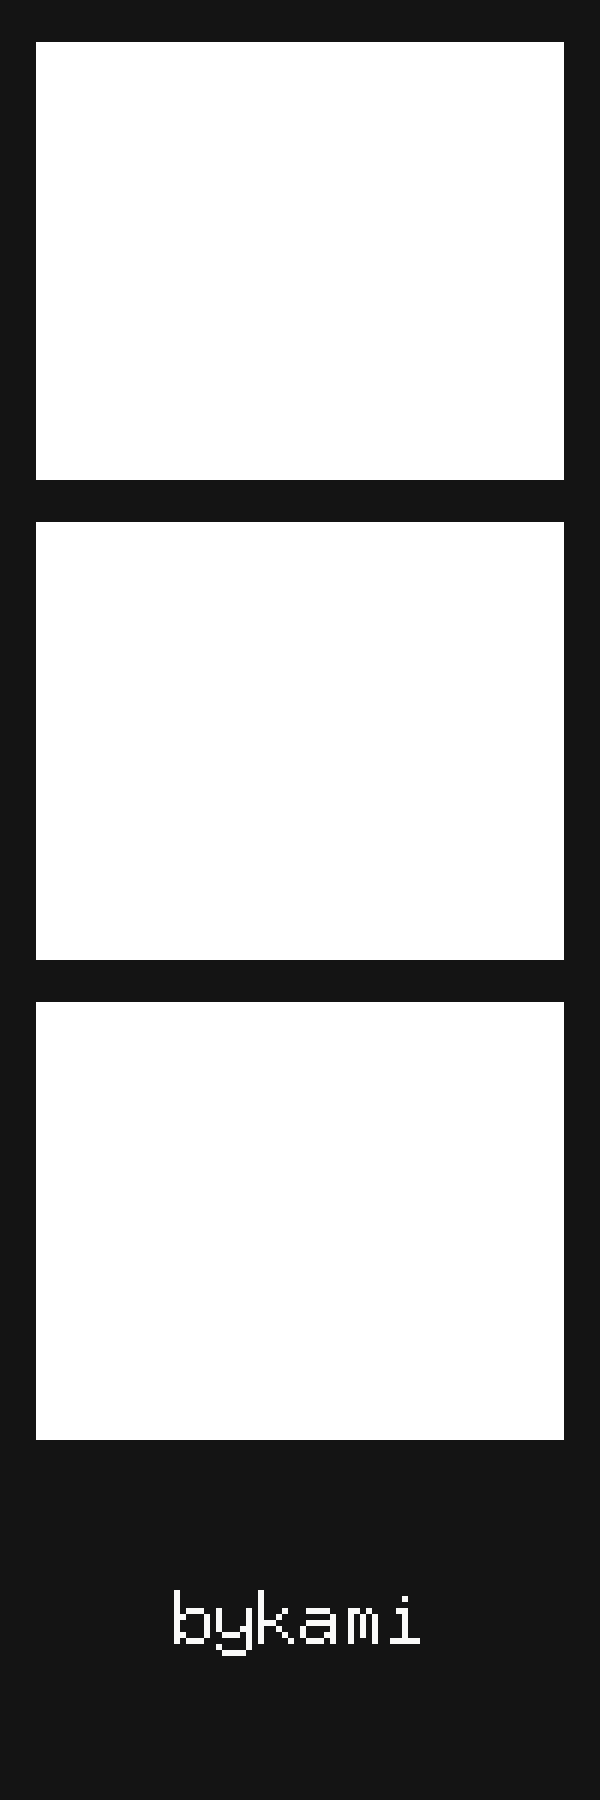
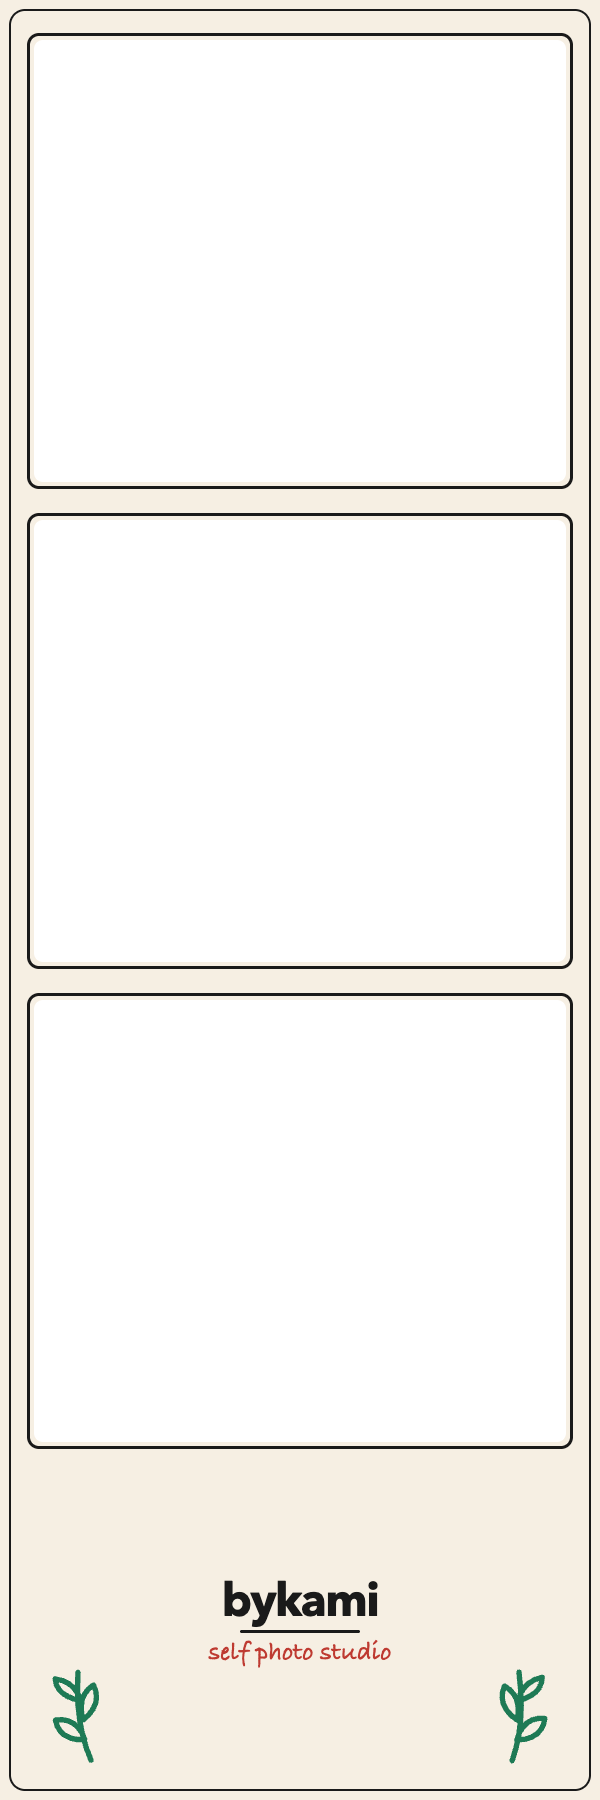
Draw the real strip frames, to the house design language
Cream mat, ink outlines with rounded corners lapping each photo edge, the
wordmark over a rule, a handwritten line in the deep red, and a botanical
mark at each foot. They replace the blocky placeholders, which existed
only so a booth with no artwork could finish a session.

Rendered in a browser rather than drawn in Go. An overlay is a print
asset — 600x1800 at 300 dpi, real type, curves that must stay smooth at
5 cm wide — and x/image gave bitmap type, which is exactly why the
placeholders were obviously unshippable. Chrome already has a text
shaper and a path rasteriser, so the artwork is HTML/CSS/SVG against the
same tokens as the kiosk UI. The trade is a browser and two macOS fonts
to regenerate, so the PNGs are committed rather than built in CI.

Two passes, because the cells must be transparent or the frame covers
the photos it is meant to surround, and Chrome will not screenshot with
a transparent background here. The art pass is the frame; the mask pass
is white where it is opaque and black inside the cells; punch.go takes
RGB from one and alpha from the other's luminance. Punching known
rectangles instead would give hard edges, and the cells are rounded — a
stair-stepped photo edge against the ink ring shows at print resolution.

The hole is inset 4px inside the manifest cell so the ring laps the
photo rather than butting against it, costing ~0.34 mm per side.

frame.html restates the cell rectangles from each template.json and
[…]

diff --git a/design/frames/frame.html b/design/frames/frame.html
@@ -1,0 +1,142 @@
+<!doctype html>
+<html>
+<head>
+<meta charset="utf-8">
+<style>
+  :root {
+    --ink: #1a1a1a;
+    --cream: #f6efe3;
+    --red: #be3a31;
+    --green: #1e7a55;
+    --pink: #f3c9c3;
+    --yellow: #e7b23f;
+  }
+  * { box-sizing: border-box; margin: 0; padding: 0; }
+  html, body { width: 600px; height: 1800px; overflow: hidden; }
+  body { background: var(--cream); }
+
+  /* The mask pass paints the same geometry in black on white; the alpha
+     channel is taken from it, so the two passes must agree exactly. */
+  body.mask { background: #fff; }
+  body.mask .art { display: none; }
+  /* The punch belongs to the mask pass only; in the art pass the cell area is
+     left as ground, because its pixels are about to become transparent. */
+  .hole { display: none; }
+  body.mask .hole { display: block; }
+
+  .sheet { position: relative; width: 600px; height: 1800px; }
+
+  /* Drawn at the cell rect. The hole is inset inside this, so the border
+     survives the punch and laps over the photo's outer few pixels. */
+  .cell-ring {
+    position: absolute;
+    border: 3px solid var(--ink);
+    border-radius: 12px;
+  }
+  .hole {
+    position: absolute;
+    background: #000;
+    border-radius: 9px;
+  }
+
+  .edge {
+    position: absolute;
+    inset: 9px;
+    border: 2px solid var(--ink);
+    border-radius: 16px;
+  }
+
+  .foot {
+    position: absolute;
+    left: 0;
+    right: 0;
+    bottom: 0;
+    display: flex;
+    flex-direction: column;
+    align-items: center;
+    justify-content: center;
+    gap: 6px;
+  }
+  .wordmark {
+    font-family: "Avenir Next", "Helvetica Neue", Helvetica, Arial, sans-serif;
+    font-weight: 700;
+    font-size: 46px;
+    letter-spacing: -1.5px;
+    color: var(--ink);
+    line-height: 1;
+  }
+  .tag {
+    font-family: "Bradley Hand", "Segoe Script", "Comic Sans MS", cursive;
+    font-size: 26px;
+    color: var(--red);
+    line-height: 1.1;
+  }
+  .rule {
+    width: 120px;
+    height: 3px;
+    background: var(--ink);
+    border-radius: 2px;
+  }
+
+  .doodle { position: absolute; color: var(--green); }
+</style>
+</head>
+<body>
+<div class="sheet" id="sheet"></div>
+
+<script>
+  const params = new URLSearchParams(location.search);
+  const which = params.get("t") === "3" ? 3 : 4;
+  const mask = params.get("mask") === "1";
+
+  // The manifests, restated. These must match template.json exactly — the hole
+  // punched here is where the photo shows through.
+  const LAYOUTS = {
+    3: { cells: [[30,36,540,450],[30,516,540,450],[30,996,540,450]], foot: 354 },
+    4: { cells: [[30,30,540,360],[30,405,540,360],[30,780,540,360],[30,1155,540,360]], foot: 285 },
+  };
+
+  const sprig =
+    `<svg viewBox="0 0 100 100" fill="none" stroke="currentColor" stroke-width="5"
+          stroke-linecap="round" stroke-linejoin="round">
+       <path d="M50 94 C 46 70, 48 44, 58 12"/>
+       <path d="M49 74 C 34 72, 26 62, 27 50 C 40 51, 48 60, 49 74 Z"/>
+       <path d="M52 56 C 66 50, 72 39, 69 27 C 57 31, 51 42, 52 56 Z"/>
+       <path d="M54 38 C 42 33, 34 24, 36 13 C 47 17, 54 27, 54 38 Z"/>
+     </svg>`;
+
+  const L = LAYOUTS[which];
+  const sheet = document.getElementById("sheet");
+  if (mask) document.body.classList.add("mask");
+
+  const px = (n) => n + "px";
+  let html = "";
+
+  // Rings and edge are artwork; holes are mask-only.
+  html += `<div class="art"><div class="edge"></div></div>`;
+  for (const [x, y, w, h] of L.cells) {
+    html += `<div class="art cell-ring" style="left:${px(x - 3)};top:${px(y - 3)};` +
+            `width:${px(w + 6)};height:${px(h + 6)}"></div>`;
+  }
+
+  // The punch, 4px inside the cell so the ring laps the photo edge.
+  for (const [x, y, w, h] of L.cells) {
+    html += `<div class="hole" style="left:${px(x + 4)};top:${px(y + 4)};` +
+            `width:${px(w - 8)};height:${px(h - 8)}"></div>`;
+  }
+
+  const doodleSize = which === 3 ? 108 : 88;
+  html += `<div class="art foot" style="height:${px(L.foot)}">
+             <div class="wordmark">bykami</div>
+             <div class="rule"></div>
+             <div class="tag">self photo studio</div>
+           </div>
+           <div class="art doodle" style="left:26px;bottom:28px;
+                width:${px(doodleSize)};transform:rotate(-14deg)">${sprig}</div>
+           <div class="art doodle" style="right:26px;bottom:28px;
+                width:${px(doodleSize)};transform:scaleX(-1) rotate(-10deg)">${sprig}</div>`;
+
+  sheet.innerHTML = html;
+</script>
+</body>
+</html>

diff --git a/design/frames/punch.go b/design/frames/punch.go
@@ -1,0 +1,81 @@
+// Command punch combines a frame's art pass with its mask pass.
+//
+// Chrome renders both at the same geometry: the art pass is the frame as it
+// should print, the mask pass is white everywhere the frame is opaque and black
+// inside the cells. Taking alpha from the mask's luminance keeps the holes
+// antialiased, which a rectangle punched by hand would not be — the cells have
+// rounded corners, and a hard-edged hole would show a stair-stepped photo edge
+// against the ink ring.
+package main
+
+import (
+	"fmt"
+	"image"
+	"image/color"
+	"image/png"
+	"log"
+	"os"
+)
+
+func main() {
+	if len(os.Args) != 4 {
+		log.Fatal("usage: punch <art.png> <mask.png> <out.png>")
+	}
+	art := load(os.Args[1])
+	mask := load(os.Args[2])
+
+	if art.Bounds() != mask.Bounds() {
+		log.Fatalf("art %v and mask %v are different sizes", art.Bounds(), mask.Bounds())
+	}
+
+	b := art.Bounds()
+	out := image.NewNRGBA(b)
+	var opaque, clear int
+	for y := b.Min.Y; y < b.Max.Y; y++ {
+		for x := b.Min.X; x < b.Max.X; x++ {
+			mr, mg, mb, _ := mask.At(x, y).RGBA()
+			// Rec. 601 luma. The mask is greyscale apart from antialiasing, so
+			// the weighting barely matters, but averaging channels would tint
+			// the edge alpha if the renderer ever subpixel-antialiases.
+			a := (299*mr + 587*mg + 114*mb) / 1000 >> 8
+
+			r, g, bb, _ := art.At(x, y).RGBA()
+			out.Set(x, y, color.NRGBA{uint8(r >> 8), uint8(g >> 8), uint8(bb >> 8), uint8(a)})
+
+			switch {
+			case a == 255:
+				opaque++
+			case a == 0:
+				clear++
+			}
+		}
+	}
+
+	f, err := os.Create(os.Args[3])
+	if err != nil {
+		log.Fatal(err)
+	}
+	defer f.Close()
+	if err := png.Encode(f, out); err != nil {
+		log.Fatal(err)
+	}
+
+	total := b.Dx() * b.Dy()
+	fmt.Printf("%s: %dx%d, %.1f%% opaque, %.1f%% transparent, %d antialiased\n",
+		os.Args[3], b.Dx(), b.Dy(),
+		100*float64(opaque)/float64(total), 100*float64(clear)/float64(total),
+		total-opaque-clear)
+}
+
+func load(path string) image.Image {
+	f, err := os.Open(path)
+	if err != nil {
+		log.Fatal(err)
+	}
+	defer f.Close()
+	img, err := png.Decode(f)
+	if err != nil {
+		log.Fatalf("%s: %v", path, err)
+	}
+	return img
+}

diff --git a/design/frames/README.md b/design/frames/README.md
@@ -1,0 +1,91 @@
+# Frame artwork
+
+The source for the strip overlays in
+`agent/internal/compose/templates/{strip-3,strip-4}/overlay.png`. The PNGs are
+committed; this directory is how they were made and how to change them.
+
+## Why it is rendered in a browser
+
+An overlay is a print asset — 600×1800 at 300 dpi, real type, curves that have
+to stay smooth at 5 cm wide. Drawing that in Go against `x/image` meant blocky
+bitmap type, which is what the previous placeholders looked like and why they
+were obviously unshippable. Chrome already has a text shaper and a path
+rasteriser, so the artwork is written as HTML/CSS/SVG against the same tokens as
+the kiosk UI and screenshotted at exact pixel size.
+
+The trade is that regenerating needs a browser and the fonts named in
+`frame.html`, which is why the output is committed rather than built in CI.
+
+## Why there are two passes
+
+`compose.Sheet` draws background → photos → overlay, with the overlay composited
+`draw.Over`. The cells must therefore be **transparent** in the overlay or the
+frame would cover the photos it is supposed to surround.
+
+Chrome cannot screenshot with a transparent background here, so the frame is
+rendered twice at identical geometry:
+
+- **art** — the frame as it prints, cells left as ground
+- **mask** (`?mask=1`) — white everywhere the frame is opaque, black inside the
+  cells
+
+`punch.go` then takes RGB from the art and alpha from the mask's luminance. The
+alternative — punching rectangles with known coordinates — would give hard
+edges, and the cells have rounded corners: a stair-stepped photo edge against
+the ink ring is visible at print resolution.
+
+The hole is inset **4 px inside** the manifest cell so the ink ring laps the
+photo's outer edge rather than butting against it. That costs about 0.34 mm of
+photo per side and is why the corners look drawn rather than clipped.
+
+## Regenerating
+
+```bash
+cd design/frames && python3 -m http.server 8912
+```
+
+Then, at a viewport of exactly **600×1800**, screenshot each of:
+
+```
+http://127.0.0.1:8912/frame.html?t=4          → s4art.png
+http://127.0.0.1:8912/frame.html?t=4&mask=1   → s4mask.png
+http://127.0.0.1:8912/frame.html?t=3          → s3art.png
+http://127.0.0.1:8912/frame.html?t=3&mask=1   → s3mask.png
+```
+
+```bash
+go run punch.go s4art.png s4mask.png ../../agent/internal/compose/templates/strip-4/overlay.png
+go run punch.go s3art.png s3mask.png ../../agent/internal/compose/templates/strip-3/overlay.png
+```
+
+`punch.go` prints the opaque/transparent split. A sane strip is roughly a third
+opaque; if it reports near 0% transparent the mask pass did not render, and the
+overlay would print as a solid card over the customer's faces.
+
+## The geometry is duplicated, deliberately
+
+`frame.html` restates the cell rectangles from each `template.json`. They must
+match: the hole punched here is where the photo shows through. It is duplicated
+rather than imported because the renderer is a static page with no build step,
+and a build step to remove one small duplication would be the more expensive
+mistake. `compose` will not catch a mismatch — it composites whatever it is
+given — so **check a composed sheet after any geometry change**, not just the
+overlay on its own.
+
+## Fonts
+
+`Avenir Next` for the wordmark and `Bradley Hand` for the handwritten line, both
+macOS system faces, with Windows and generic fallbacks named. Rasterising text
+with an installed font into an image is ordinary use and does not redistribute
+the font — unlike bundling a woff2, which is why `apps/kiosk/src/styles.css` has
+the opposite constraint.
+
+Regenerating on a machine without those faces will silently substitute and the
+type will shift. If that matters, the fix is to commit an OFL face here and name
+it explicitly.
+
+## 4R has no overlay, on purpose
+
+`4r-polos` is *polos* — plain. Its single cell is the entire 1200×1800 sheet, so
+any overlay would cover the photograph rather than frame it. Giving 4R a frame
+means a **new template** with a smaller cell, not an overlay on this one.

diff --git a/agent/internal/compose/templates/README.md b/agent/internal/compose/templates/README.md
@@ -1,28 +1,30 @@
 # Built-in templates
 
 These three exist so that a booth with no artwork installed can still complete a
-session end to end — they are not the design work.
+session end to end.
 
-## The two strip overlays are placeholders
+## The two strip overlays
 
-`strip-3/overlay.png` and `strip-4/overlay.png` were **drawn programmatically**,
-not designed: a flat mat with the photo cells punched out and a blocky bitmap
-wordmark. The blockiness is deliberate, so that nobody mistakes one for final
-artwork.
+`strip-3/overlay.png` and `strip-4/overlay.png` are drawn to the house design
+language — cream mat, ink outlines, the wordmark and a handwritten line, a
+botanical mark at each foot. Source and the regeneration steps are in
+`design/frames/`; edit `frame.html` there rather than the PNGs.
 
-They are here rather than downloaded because every stock source carries
+They are ours rather than downloaded because every stock source carries
 attribution or share-alike terms and this repository is public — the same reason
-`refs/screenshots/` is gitignored. Drawing them makes them ours to publish.
+`refs/screenshots/` is gitignored. Drawing them makes them ours to publish, and
+that constraint is why a competitor's frames are not an option however
+convenient they look.
 
-Delete both the moment the studio's real files land. `4r-polos` has no overlay
-and should not get one: *polos* means plain, and its single cell is the whole
-sheet, so any overlay would cover the photograph.
+`4r-polos` has no overlay and must not get one: *polos* means plain, and its
+single cell is the whole sheet, so any overlay would cover the photograph.
+Giving 4R a frame means a **new template** with a smaller cell.
 
-The real templates are **flat files that already exist**: booth packages
-advertise *"free desain frame"*, so the artwork has been drawn. Importing it is
-content work, and `design/kiosk.md` is explicit that importing beats building an
-authoring tool, and that 99+ templates versus six is the actual gap against the
-incumbent. It also sidesteps the logo-vector blocker in `assets-needed.md`.
+These are the house frames, not the catalogue. `design/kiosk.md` is explicit
+that 99+ templates versus six is the actual gap against the incumbent, that
+importing beats building an authoring tool, and that the studio's existing
+*"free desain frame"* files are flat artwork that already exists. Importing
+those is still content work and still worth doing.
 
 ## Adding one
 
@@ -61,7 +63,11 @@ without a rebuild by pointing `-templates` at a folder on the booth PC.
 
 ## Frame spec still open
 
-`design/kiosk.md` lists bleed, safe area and cut marks as undecided. Until they
-are settled, the margins here are a guess that looks reasonable rather than a
-measurement against a printed sheet — check one on the real printer before
-anyone draws forty designs against these numbers.
+The strip size is settled — **2×6 in**, which is what the DS-RX1HS cuts, so
+600×1800 at 300 dpi is right (`design/assets-needed.md`).
+
+Bleed, safe area and cut marks are not. The margins here are a guess that looks
+reasonable rather than a measurement against a printed sheet, and the ink ring
+around each cell is exactly the kind of detail a few millimetres of cut drift
+would ruin. **Print one and measure it** before anyone draws forty designs
+against these numbers.
